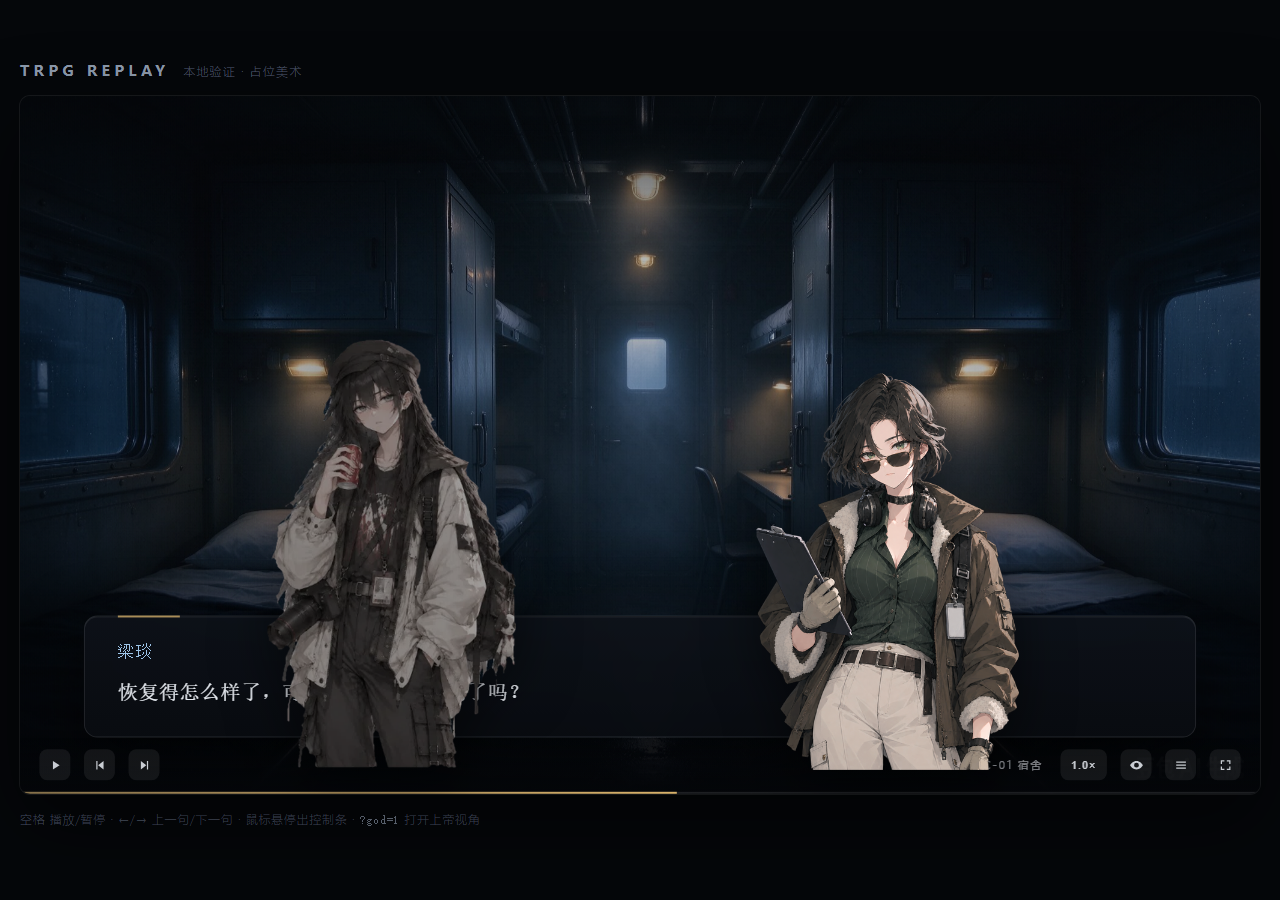
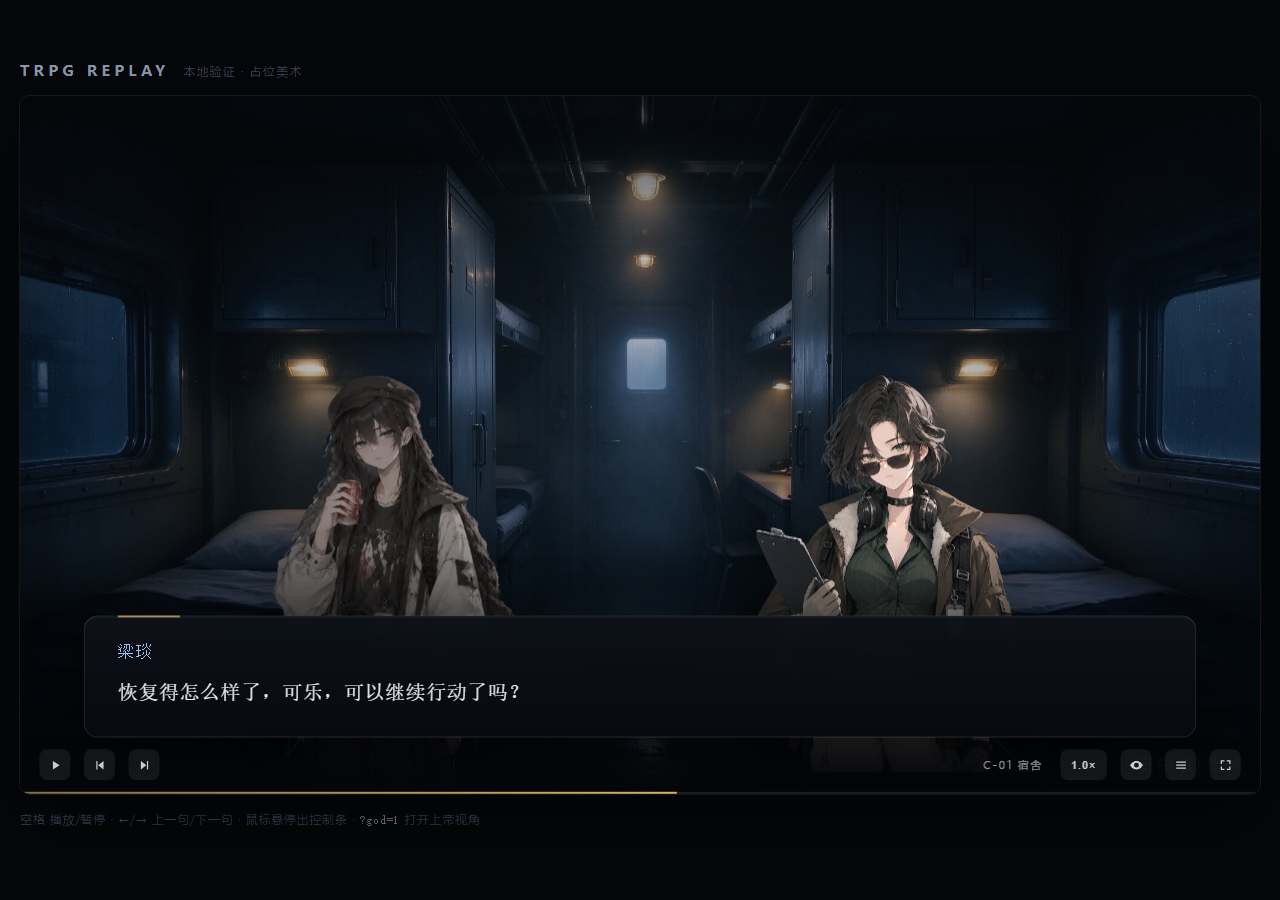
fix(player): 立绘不再压住文字，限定在画面下 60%，站位固定不换边
1) 真正的挡字原因：给 .char 设了 z-index:10，而立绘层没有独立层叠上下文，
   于是人物被抬到了 .body 文字层之上。给 .cast 加 z-index:0 建立层叠上下文，
   人物永远在文字之下；对话框同时改为实底。
2) 立绘限定在画面下方 60%（top:40%, height:60%, overflow:hidden），
   头部统一落在 40% 高度，超出部分截断下半身。
3) 站位改为按'首次登场顺序'固定：换说话人只切明暗，不再左右对调；
   超过 3 人时按最近发言时间淘汰，其余人的位置不受影响。
4) 有立绘在场时旁白改用底部实底卡片，不浮在人物中间。

Changed region(s): [[0.1875, 0.3733, 0.4062, 0.8711], [0.5938, 0.4044, 0.8125, 0.8711]]

diff --git a/src/player.ts b/src/player.ts
@@ -87,6 +87,8 @@ export class Player {
   private wake: (() => void) | null = null
   private san: Record<string, { cur: number; max: number }> = {}
   private onStage: string[] = []
+  private lastSpoke = new Map<string, number>()
+  private speakTick = 0
   private currentScene = -1
   private scale = 1
 
@@ -267,9 +269,12 @@ export class Player {
       picked.unshift(e.speaker)
     }
     this.castEl.replaceChildren()
-    this.onStage = []
-    for (const id of picked) this.spawnChar(id)
-    this.onStage = picked
+    this.onStage = [...picked]
+    this.lastSpoke.clear()
+    for (const id of picked) {
+      this.spawnChar(id)
+      this.lastSpoke.set(id, ++this.speakTick)
+    }
     this.layoutCast()
     const current = this.visible[index]?.speaker
     for (const n of Array.from(this.castEl.querySelectorAll<HTMLElement>('.char'))) {
@@ -558,30 +563,35 @@ export class Player {
     if (!node) node = this.spawnChar(id)
     node.classList.add('show')
 
-    // 记住谁在台上，最近说话的人排最后；超过上限就把最早的那位请下去
-    this.onStage = this.onStage.filter((x) => x !== id)
-    this.onStage.push(id)
-    while (this.onStage.length > MAX_CAST) {
-      const dropped = this.onStage.shift() as string
-      this.castEl.querySelector(`.char[data-id="${dropped}"]`)?.remove()
+    this.lastSpoke.set(id, ++this.speakTick)
+    if (!this.onStage.includes(id)) {
+      // 站位按"首次登场顺序"固定，换说话人不会换边；满了就请走最久没说话的
+      if (this.onStage.length >= MAX_CAST) {
+        let victim = this.onStage[0]
+        for (const other of this.onStage) {
+          if ((this.lastSpoke.get(other) ?? 0) < (this.lastSpoke.get(victim) ?? 0)) victim = other
+        }
+        this.onStage = this.onStage.filter((x) => x !== victim)
+        this.lastSpoke.delete(victim)
+        this.castEl.querySelector(`.char[data-id="${victim}"]`)?.remove()
+      }
+      this.onStage.push(id)
+      this.layoutCast()
     }
-    this.layoutCast()
 
     for (const n of Array.from(this.castEl.querySelectorAll<HTMLElement>('.char'))) {
       n.classList.toggle('active', n.dataset.id === id)
     }
   }
 
-  /** 按台上人数均分站位：1 人居中、2 人左右、3 人三等分。 */
+  /** 按登场顺序均分站位：1 人居中、2 人左右、3 人三分。位置只增不减，不因说话而换边。 */
   private layoutCast() {
     const n = this.onStage.length
     const xs = n <= 1 ? [50] : n === 2 ? [30, 70] : [17, 50, 83]
-    const shrink = n >= 3 ? 0.84 : 1
     this.onStage.forEach((id, i) => {
       const node = this.castEl.querySelector<HTMLElement>(`.char[data-id="${id}"]`)
       if (!node) return
       node.style.setProperty('--x', `${xs[i] ?? 50}%`)
-      node.style.setProperty('--s', String(shrink))
       node.style.zIndex = String(10 + i)
     })
   }

diff --git a/src/style.ts b/src/style.ts
@@ -73,32 +73,34 @@ export const STYLE = /* css */ `
 }
 
 /* ---------------------------------------------------------------- 立绘 */
-.cast { position: absolute; inset: 0; pointer-events: none; }
+/* 立绘层必须自成一个层叠上下文，否则子元素的 z-index 会跑到文字层上面去 */
+.cast { position: absolute; inset: 0; pointer-events: none; z-index: 0; }
 
 .char {
   position: absolute;
-  bottom: 0;
+  top: 40%;
   left: var(--x, 50%);
   width: 600px;
-  height: 700px;
+  height: 60%;
   display: flex;
-  align-items: flex-end;
+  align-items: flex-start;
   justify-content: center;
+  overflow: hidden;
   opacity: 0;
-  transform-origin: 50% 100%;
-  transform: translateX(-50%) translateY(calc(14px + var(--cy, 0px))) scale(calc(var(--s, 1) * var(--cs, 1) * .99));
+  transform-origin: 50% 0;
+  transform: translateX(-50%) translateY(calc(14px + var(--cy, 0px)));
   transition: opacity 420ms ease, transform 420ms ease, filter 420ms ease,
               left 480ms cubic-bezier(.2,.8,.2,1);
   filter: saturate(.8) brightness(.62);
 }
 .char.show {
   opacity: 1;
-  transform: translateX(-50%) translateY(var(--cy, 0px)) scale(calc(var(--s, 1) * var(--cs, 1)));
+  transform: translateX(-50%) translateY(var(--cy, 0px));
 }
 .char.active { filter: saturate(1) brightness(1.02); }
 
 .char img {
-  height: 100%;
+  height: calc(700px * var(--cs, 1));
   width: auto;
   max-width: none;
   object-fit: contain;
@@ -210,6 +212,17 @@ export const STYLE = /* css */ `
 }
 .narration .seg.on { opacity: 1; }
 .narration .seg.lead { color: #dfe6f0; }
+
+/* 有立绘在场时，旁白改成实底卡片——文字永远压在人物之上，不给人挡字的机会 */
+.stage.has-cast .narration,
+.stage.has-cast .action {
+  margin-bottom: 58px;
+  padding: 26px 46px;
+  border-radius: 16px;
+  background: linear-gradient(180deg, rgba(11,15,21,.93), rgba(7,10,14,.96));
+  box-shadow: 0 24px 70px rgba(0,0,0,.55), inset 0 0 0 1px rgba(255,255,255,.05);
+  text-shadow: none;
+}
 .narration .seg i {
   font-style: normal;
   color: var(--accent);
@@ -243,10 +256,10 @@ export const STYLE = /* css */ `
   margin: 0 66px 58px;
   padding: 22px 34px 26px;
   border-radius: 14px;
-  background: linear-gradient(180deg, rgba(14,18,25,.90), rgba(9,12,17,.95));
+  background: linear-gradient(180deg, rgba(13,17,24,.985), rgba(7,10,15,.995));
   border: 1px solid rgba(255,255,255,.10);
   box-shadow: 0 24px 70px rgba(0,0,0,.6), inset 0 1px 0 rgba(255,255,255,.07);
-  backdrop-filter: blur(10px);
+  backdrop-filter: none;
   animation: rise 380ms cubic-bezier(.2,.8,.2,1) both;
 }
 .bubble::before {
